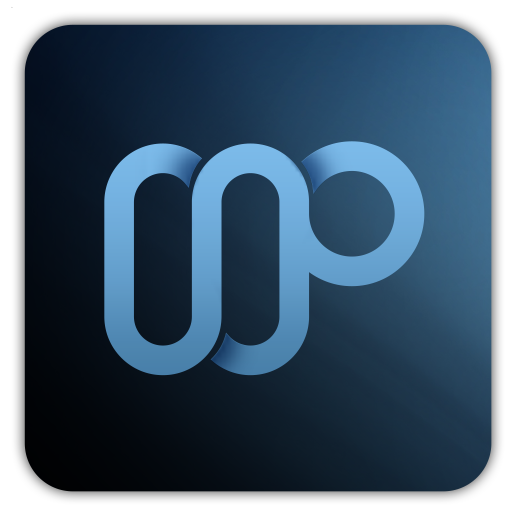
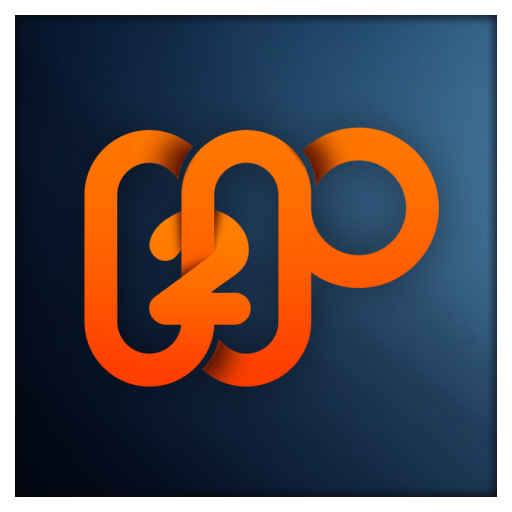
- Fixed a bug where the title for a recording wouldn't show
- You are now able to watch a show even if there is no EPG data available
- New icon

Changed region(s): [[0.1562, 0.25, 0.875, 0.7812], [0.0312, 0.0312, 1.0, 1.0]]

diff --git a/Contents/Code/__init__.py b/Contents/Code/__init__.py
@@ -128,10 +128,13 @@ def GetEPGList(title, id):
 	end = start + datetime.timedelta(days=1)
 	
 	channels = ServiceRequest('epg', id=id, start=start, end=end)
-	for idx,channel in enumerate(channels):
-		start = FormatDate(channel['StartTime'], '%I:%M %p')
-		end = FormatDate(channel['EndTime'], '%I:%M %p')
-		oc.add(DirectoryObject(key = Callback(PlayAndRecordMenu, id=channel['ChannelId'], title=channel['Title'], start=channel['StartTime'], end=channel['EndTime'], index=idx), title=start + ' - ' + end + ' ' + channel['Title']))
+	if len(channels) > 0:
+		for idx,channel in enumerate(channels):
+			start = FormatDate(channel['StartTime'], '%I:%M %p')
+			end = FormatDate(channel['EndTime'], '%I:%M %p')
+			oc.add(DirectoryObject(key = Callback(PlayAndRecordMenu, id=channel['ChannelId'], title=channel['Title'], start=channel['StartTime'], end=channel['EndTime'], index=idx), title=start + ' - ' + end + ' ' + channel['Title']))
+	else:
+		oc.add(URLService.MetadataObjectForURL('mediaportal://show/%s/%s' % ('12', id)))
 
 	return oc
 
